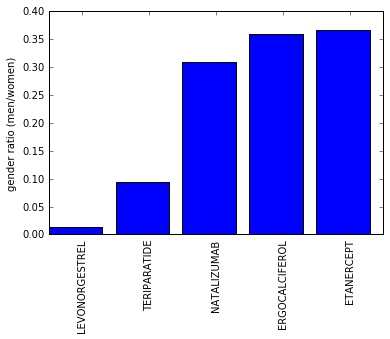
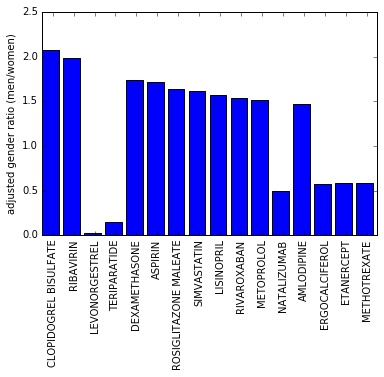
Work on plots and search bar.

diff --git a/app/src/components/Plot1Screen.js b/app/src/components/Plot1Screen.js
@@ -4,9 +4,21 @@ class Plot1Screen extends Component {
 
   render() {
     return (
-     <div>
-      <h3>Gender Ratio</h3>
+     <div style={{'marginLeft':'20px'}}>
+      <h3>Adjusted Gender Ratio</h3>
       <img src={'./plots/genderRatio.jpg'}/>
+      <p style={{'marginRight':'100px'}}>
+      Drug generics in the open.fda.gov database with
+      the largest disparity of impact on men and women (as measured by
+      the ratio of adverse event counts in men to women, adjusted for 
+      overall base rates). Adjusted ratios farther from one indicate greater
+      gender disparity.  Ratios above one indicate higher impact on men,
+      and ratios below one indicate higher impact on women.  It is not surprising 
+      that some highly-gendered drugs, like Levonogestrel (a pregnancy medication), 
+      have ratios far from one.  It is interesting, however, that other drugs like
+      clopidogrel bisulfate (a platelet aggregation medication) show large disparities.
+      This may point to increased risk based on gender for certain drugs. 
+      </p>
      </div>
     );
   }

diff --git a/app/src/components/Plot2Screen.js b/app/src/components/Plot2Screen.js
@@ -4,9 +4,20 @@ class Plot2Screen extends Component {
 
   render() {
     return (
-     <div>
-      <h3>Weight Distribution</h3>
+     <div style={{'marginLeft':'20px'}}>
+      <h3>Weight Distributions</h3>
       <img src={'./plots/weightDist.jpg'}/>
+      <p style={{'marginRight':'100px'}}>
+      Patient weight distributions for drug generics in the 
+      open.fda.gov database with the lowest weight variability (sorted
+      from low to high on y-axis).
+      Low weight variability may implicate weight as a risk factor
+      in taking a particular mediation. Denosumab (an osteoporosis
+      medication), for instance, is associated with high rates of adverse
+      events in low-weight patients (40-50kg).  It should be noted that
+      this data is correlational and more data would be needed to make
+      stronger claims. 
+      </p>
      </div>
     );
   }

diff --git a/app/src/components/SearchBar.js b/app/src/components/SearchBar.js
@@ -11,8 +11,11 @@ class SearchBar extends Component {
   }
 
   render() {
+    const { search_drug } = this.props 
     return (
-     <div>
+     <div style = {{'textAlign':'center'}}>
+     <button onClick={()=>search_drug('HUMIRA')}>Stats on Humira</button>
+     <button style = {{'marginLeft':'5px'}} onClick={()=>search_drug('ZESTRIL')}>Stats on Zestril</button>
      <h3 className="title">Search for a drug</h3>
      <input className = "searchBar" ref="searchBar" 
      onKeyPress={e=>this.handleKeyPress(this.refs.searchBar.value,e.key)}/>

diff --git a/server/database/db.js b/server/database/db.js
@@ -9,12 +9,9 @@ function db() {
 	  }
 	  else {
 	  	var isProduction = process.env.NODE_ENV === 'production';
-	  	console.log("IS THIS PRODUCTION?")
-	  	console.log(isProduction);
 
 	  	if (isProduction) {
 	  		 var url = 'mongodb://joshlevy89:Born=1989@ds019856.mlab.com:19856/heroku_vnxth4c0';
-	    	//		var url = 'mongodb://localhost:27017/pinclone';
 
 	    }
 	    else {
